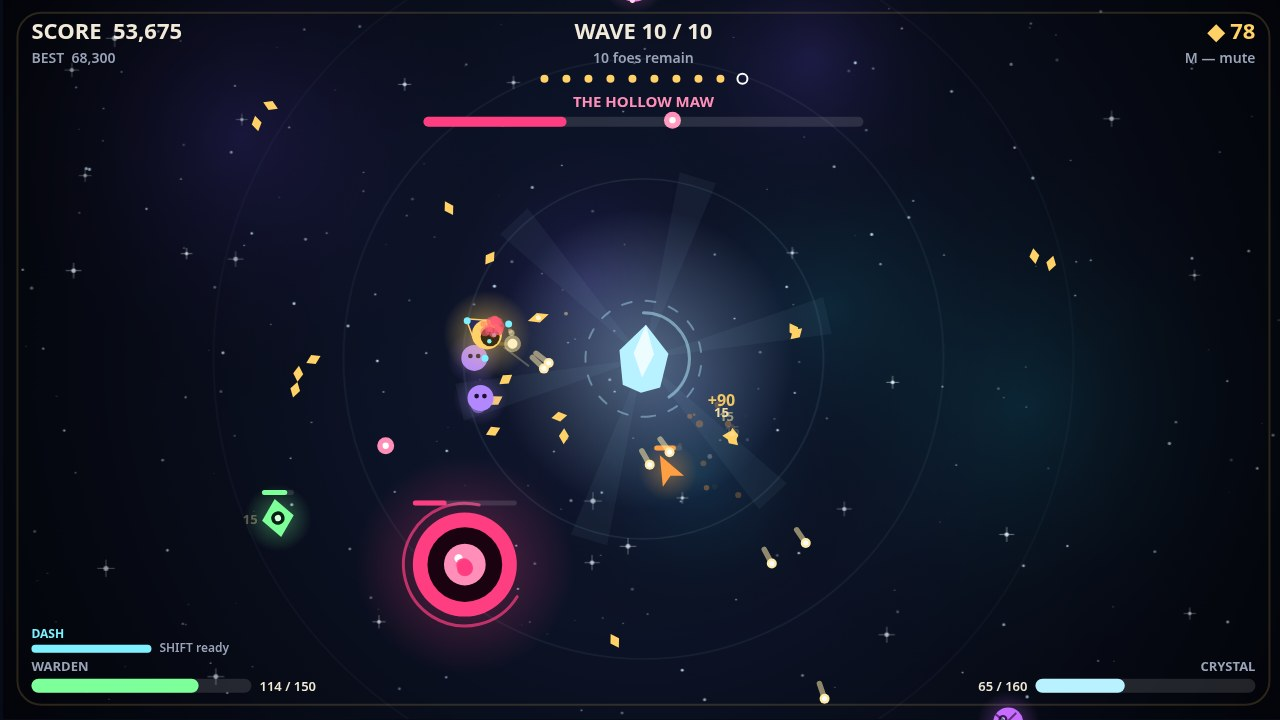
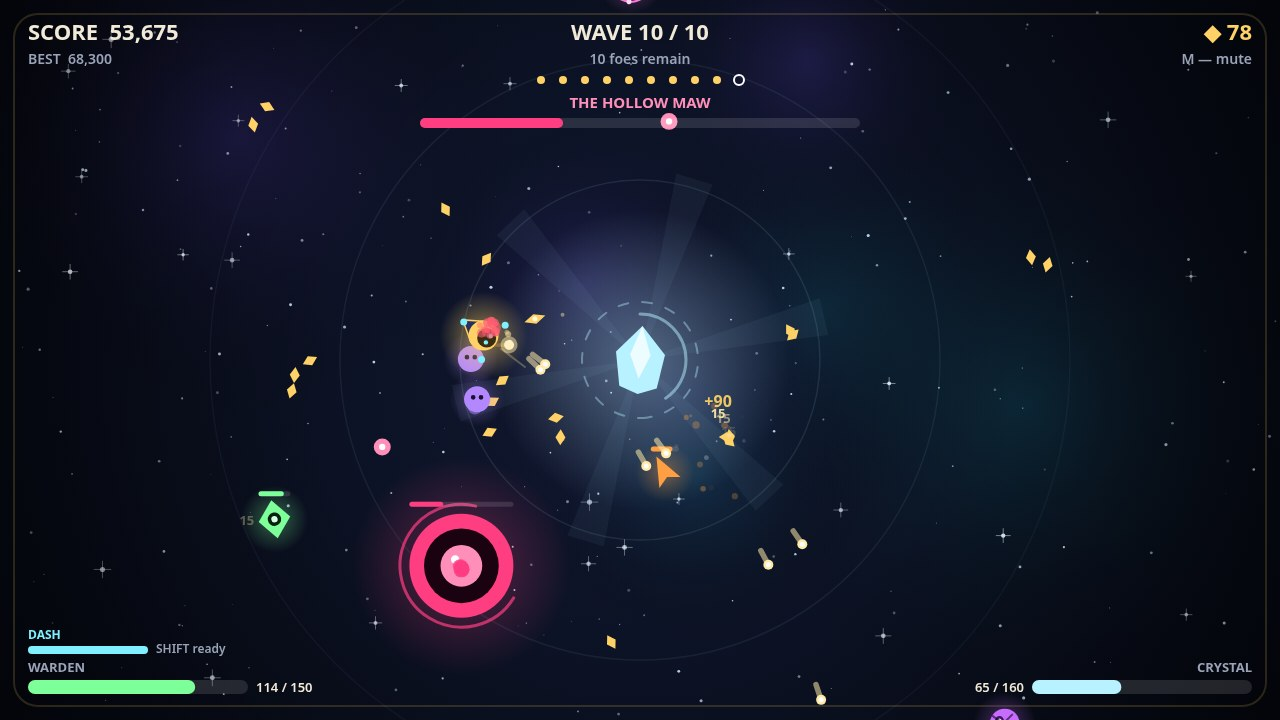
Deterministic screenshots: settle screen shake before staging a shot
The renderer's shake offset is random per paint, so a staged frame taken
while the world shook differed a pixel or two between takes. runShot now
settles the shake before painting; all four shots verified byte-identical
across two independent retakes.

diff --git a/game/src/main.js b/game/src/main.js
@@ -91,6 +91,9 @@ function runShot(name) {
     enemiesLeft: world.enemiesLeft(),
     shopMessage: '',
   };
+  // A staged frame is still: the renderer's shake is random per paint, so a
+  // shaking frame would retake differently every time. Settle it first.
+  world.state.shake = 0;
   let painted = 0;
   function paint() {
     renderer.draw(world.state, scene.screen, ui);
